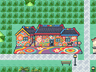
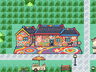
Pair the completed city edges with the Boulevard preview

diff --git a/web/src/main.ts b/web/src/main.ts
@@ -21,7 +21,7 @@ import { protectGameDisplay } from './game-display';
 import { NativeNavigationBridge, parseNavigationMetadata } from './navigation-bridge';
 import type { NavigationState } from './navigation-bridge';
 import { createMinimap } from './minimap';
-import { projectNavigation, secondaryAction, streetAt } from './minimap-model';
+import { districtAt, projectNavigation, secondaryAction, streetAt } from './minimap-model';
 import { BOULEVARD_PREVIEW, cityGeometry as minimapGeometry } from './preview-world';
 import { createOnboarding } from './onboarding';
 import { parseOnboardingMetadata } from './onboarding-bridge';
@@ -221,8 +221,7 @@ function renderNavigation() {
   const position = packet ? projectNavigation(packet, minimapGeometry) : undefined;
   const street = streetAt(position, minimapGeometry);
   const streetLabel = el('live-street');
-  const district = districtOnSign && position && !position.indoor
-    ? minimapGeometry.mapsByNativeKey[position.districtKey]?.districtName : undefined;
+  const district = districtOnSign ? districtAt(position, minimapGeometry) : undefined;
   const language = getLocale() === 'zh-Hant' ? 'zh' : 'en';
   const streetFields = [
     [el('live-street-name'), street?.[language] ?? ''],

diff --git a/web/src/minimap-model.ts b/web/src/minimap-model.ts
@@ -21,6 +21,7 @@ export type MinimapGeometry = {
     worldOrigin?: Pair; worldRect?: Pair; parentNativeKey?: string;
     parentMarkerId?: string; parentEntranceWorld?: Pair; indoorLabel?: LocalizedName;
     districtName?: LocalizedName;
+    districtBefore?: { y: number; name: LocalizedName };
   }>;
   markersById: Record<string, { id: string; world: Pair; exteriorNativeKey: string; name: LocalizedName; captureBit?: number }>;
 };
@@ -73,6 +74,13 @@ export function projectNavigation(packet: NavigationSnapshot, geometry: MinimapG
 /** The radar only follows the player outdoors; indoors (any interior) it hides like in menus and battles. */
 export function radarPosition(position?: MinimapPosition) {
   return position && !position.indoor ? position : undefined;
+}
+
+export function districtAt(position: MinimapPosition | undefined, geometry: MinimapGeometry) {
+  if (!position || position.indoor) return;
+  const map = geometry.mapsByNativeKey[position.districtKey];
+  const split = map?.districtBefore;
+  return split && position.worldY < split.y ? split.name : map?.districtName;
 }
 
 export function streetAt(position: MinimapPosition | undefined, geometry: MinimapGeometry) {

diff --git a/web/scripts/prepare-boulevard-preview.py b/web/scripts/prepare-boulevard-preview.py
@@ -28,6 +28,7 @@ INSTALLED_SIGHTS = {
     "baseball-stadium": ("Intercontinental Ballpark", "洲際棒球場", "beitun", "Baseball stadium", "棒球場"),
     "folklore-park": ("Folk Museum at Folklore Park", "臺灣民俗文物館", "beitun", "Folk museum", "民俗館"),
 }
+RESTORED_FACADES = {"prefectural-hall", "second-market", "cultural-heritage-park"}
 LABELS = [
     ("FENGJIA 逢甲", 40, 6), ("CENTRAL PARK 中央公園", 94, 6), ("BEITUN 北屯", 178, 23),
     ("XITUN 西屯", 46, 103), ("GREENWAY 草悟道", 205, 116),
@@ -99,7 +100,7 @@ def street_bands(plan, fill, origin):
     return bands
 
 
-def terrain_images(fill, plan, candidate, width, height, origin, installed):
+def terrain_images(fill, plan, candidate, width, height, origin, installed, pavilion, placements):
     os.environ["FILL_RAW"] = "1"
     sys.path.insert(0, str(fill / "src"))
     import engine
@@ -112,11 +113,14 @@ def terrain_images(fill, plan, candidate, width, height, origin, installed):
                for x in range(edge["rect"][0], edge["rect"][2])
                for y in range(edge["rect"][1], edge["rect"][3])}
     colors = {key: ImageColor.getrgb(value) for key, value in ink.items()}
+    pavilion_tiles = {(x, y) for left, top, right, bottom in pavilion.values()
+                      for x in range(left, right) for y in range(top, bottom)}
     for row in range(height):
         for col in range(width):
             x, y = col + origin[0], row + origin[1]
             ch = world.at(x, y)
-            kind = ("outside" if ch in "HRX" or (x, y) in highway else "water" if ch == "~"
+            kind = ("road" if (x, y) in pavilion_tiles
+                    else "outside" if ch in "HRX" or (x, y) in highway else "water" if ch == "~"
                     else "road" if ch in engine.ROAD or ch in "bslaWyiq" else "land")
             image.putpixel((col + 2, row + 2), colors[kind])
     ART.mkdir(parents=True, exist_ok=True)
@@ -127,6 +131,11 @@ def terrain_images(fill, plan, candidate, width, height, origin, installed):
     art_rects = {place["id"]: place["artRect"] for place in plan["places"] if place["id"] in EXTRA_SIGHTS}
     art_rects["central-park"] = [78, 32, 102, 50]
     art_rects.update({place: entry["worldRect"] for place, entry in installed.items()})
+    for item in placements:
+        if item["sprite"] in RESTORED_FACADES:
+            x, y = item["x"], item["y"]
+            w, h = item["tiles"]
+            art_rects[item["sprite"]] = [x, y, x + w, y + h]
     scale = overview.width // width
     places_art = ART / "places"
     places_art.mkdir(exist_ok=True)
@@ -179,6 +188,11 @@ def main():
         exteriors[entry["mapId"]] = {**entry, "kind": "exterior", "projection": "local-plus-world-origin",
                                      "districtName": {"en": en, "zh": zh},
                                      "worldOrigin": origin, "worldRect": origin + normalize([right, bottom])}
+        if split := item.get("districtBefore"):
+            split_en, split_zh, _, _ = NEIGHBORHOODS[split["district"]]
+            exteriors[entry["mapId"]]["districtBefore"] = {
+                "y": split["y"] - y0, "name": {"en": split_en, "zh": split_zh},
+            }
 
     places = {place["id"]: place for place in read(DATA / "landmarks.json") + read(DATA / "sights.json")}
     plan_districts = {district["id"]: district for district in plan["districts"]}
@@ -261,7 +275,8 @@ def main():
                                      sort_keys=True, separators=(",", ":"), ensure_ascii=False).encode()).hexdigest()
     geometry["geometryFingerprintSha256"] = fingerprint
     write(DATA / "boulevard-preview.json", geometry)
-    terrain_images(args.fill, plan, candidate, width, height, (x0, y0), installed)
+    terrain_images(args.fill, plan, candidate, width, height, (x0, y0), installed,
+                   report.get("pavilionDeck", {}), raw["placements"])
     source_rom = args.rom_dir / "taichung-firered.gba"
     metadata = read(args.rom_dir / "build.json")
     require(digest(source_rom) == metadata["sha256"] == digest(args.native / "pokefirered.gba"),
